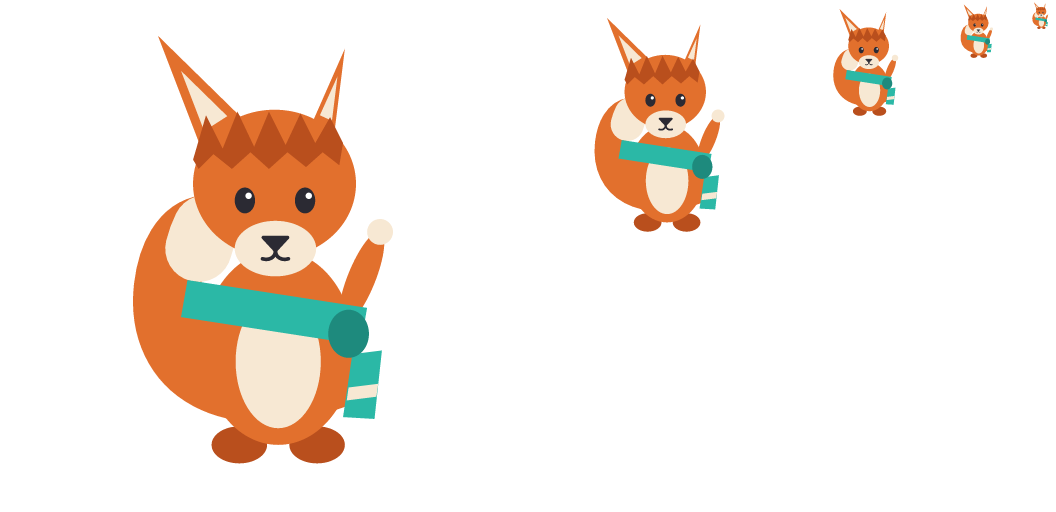
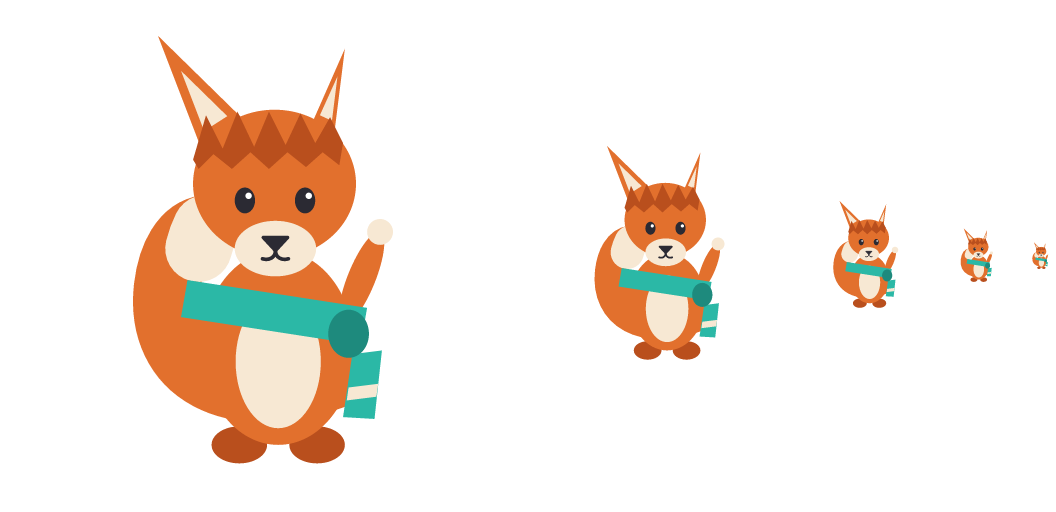
feat(KOMAA-1146): export scenes with rectangular dimensions

diff --git a/assets/mascots/style-2/README.md b/assets/mascots/style-2/README.md
@@ -3,6 +3,15 @@
 Canonical root: `assets/mascots/style-2/<character>/`. One source of truth per
 character, one renderer, no duplicate SSOT.
 
+Compositions live in `assets/mascots/style-2/scenes/<scene>/` with `source.svg`
+and `scene.json` (`id`, optional `minimumComponentShare`, default `0.01`). They
+use the same SVG validation, renderer, PNG pixel/bounds checks, hashes and
+manifest pipeline, but do not use `character.json` or the character-only
+five-color / single-character-component rules. Each scene component must meet
+its minimum share of total opaque pixels at every export size; scenes may
+contain multiple co-characters. Export dimensions are recorded as width and
+height, so viewBox aspect ratio is preserved for both characters and scenes.
+
 **Art sources are the Designer's real masters** (KOMAA-1010, commit `c411faa`):
 `iskra/source.svg` + `iskra/character.json` and `szlif/source.svg` +
 `szlif/character.json`. Every PNG in this tree is *always* generated by this
@@ -27,8 +36,8 @@ Per character (`iskra/`, `szlif/`):
 
 At the root:
 
-- `manifest.json` — set index: every character, source hash, export hashes, per-character manifest hash, every silhouette source + export hash
-- `contact-sheet.png` — pair sheet (rows 256/128/64/32, one column per character)
+- `manifest.json` — set index: characters, scenes, source/export hashes, per-asset manifest hashes, optional silhouette source + export hashes
+- `contact-sheet.png` — set sheet (rows 256/128/64/32, one column per asset)
 - `silhouettes/` — design artifacts (the 6 sketch SVGs) plus the pipeline's own
   renders: `silhouettes/png/*-{512,256,128,64,32}.png` and `silhouettes/sheet.png`
 - `PROVENANCE.md`, `qa.json` — Design artifacts (not renderer output)
@@ -43,9 +52,10 @@ node scripts/mascots/export.mjs --character iskra   # single character
 node --test tests/mascot-pipeline.test.mjs           # pipeline tests
 ```
 
-The CLI validates `character.json` schema and rejects unsafe SVG input
+The CLI validates `character.json` or `scene.json` and rejects unsafe SVG input
 (`<!ENTITY>`, `<script>`, `<foreignObject>`, event handlers, remote refs),
-renders via `@resvg/resvg-js`, then verifies each PNG: exact dimensions,
+renders via `@resvg/resvg-js`, then verifies each PNG: target width and recorded
+aspect-preserving height,
 transparent background, non-blank pixels, content fully inside the canvas
 (clipping check), and records SHA256. Any failure — including a missing
 output file — exits non-zero. Output is byte-reproducible across runs.

diff --git a/docs/mascots/style-2-character-bible.md b/docs/mascots/style-2-character-bible.md
@@ -89,6 +89,20 @@ command `npm run mascots` -> `scripts/mascots/export.mjs` (`@resvg/resvg-js` +
 this tree). Manifest validates dimensions, RGBA alpha, transparent corners,
 SHA256. Contact sheet pairs both characters at 256/128/64/32.
 
+Scenes and illustrations are separate inputs under `assets/mascots/style-2/scenes/<id>/`
+with editable `source.svg` and `scene.json`. They use the same canonical
+renderer, SVG safety checks, raster verification, hashes and set manifest, but
+do not use character metadata or the character-only palette and one-piece
+rules. `minimumComponentShare` in `scene.json` defaults to `0.01` of total
+opaque pixels; each component must meet that floor at every export size. This
+allows multiple co-characters while still rejecting isolated small artifacts.
+Exports preserve the SVG viewBox aspect ratio and record actual `width` and
+`height` per size; dimensions are not assumed square.
+
+An absent or empty `silhouettes/` directory is valid. The set manifest and
+contact sheet are still generated; silhouette entries are included only when
+silhouette sources exist.
+
 Silhouette sketches export at 256/128/64/32 (`silhouettes/png/<id>-<size>.png`)
 so the "reads as a single flat near-black tone at 64px and 32px" rule is
 testable, not asserted.
